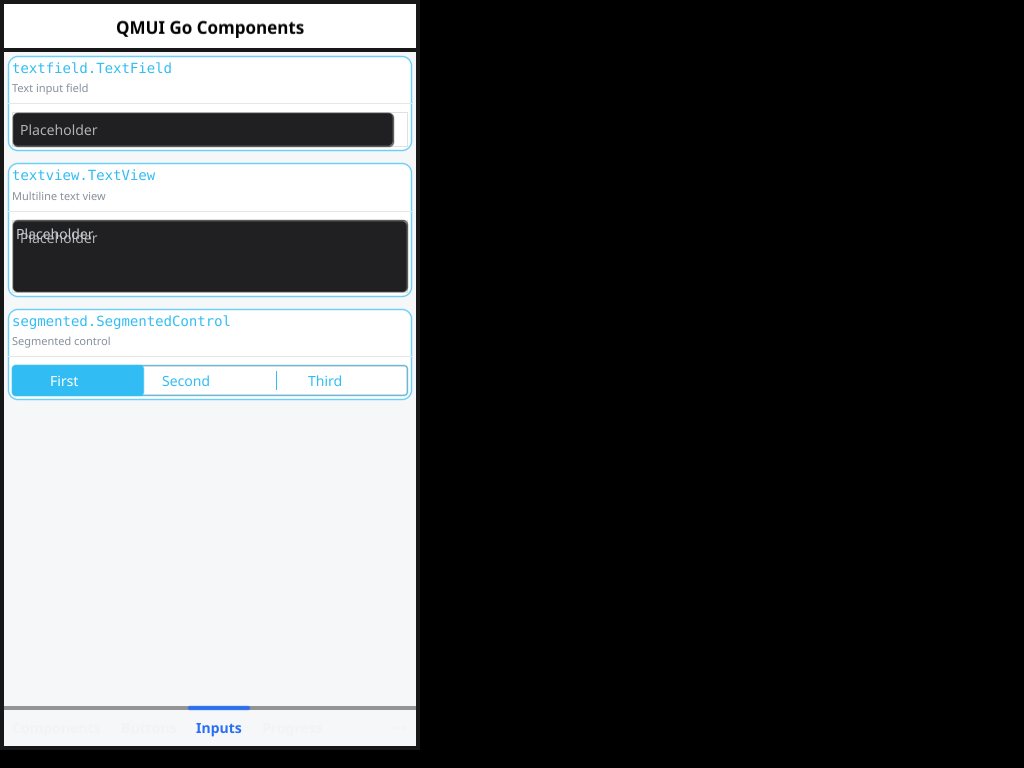
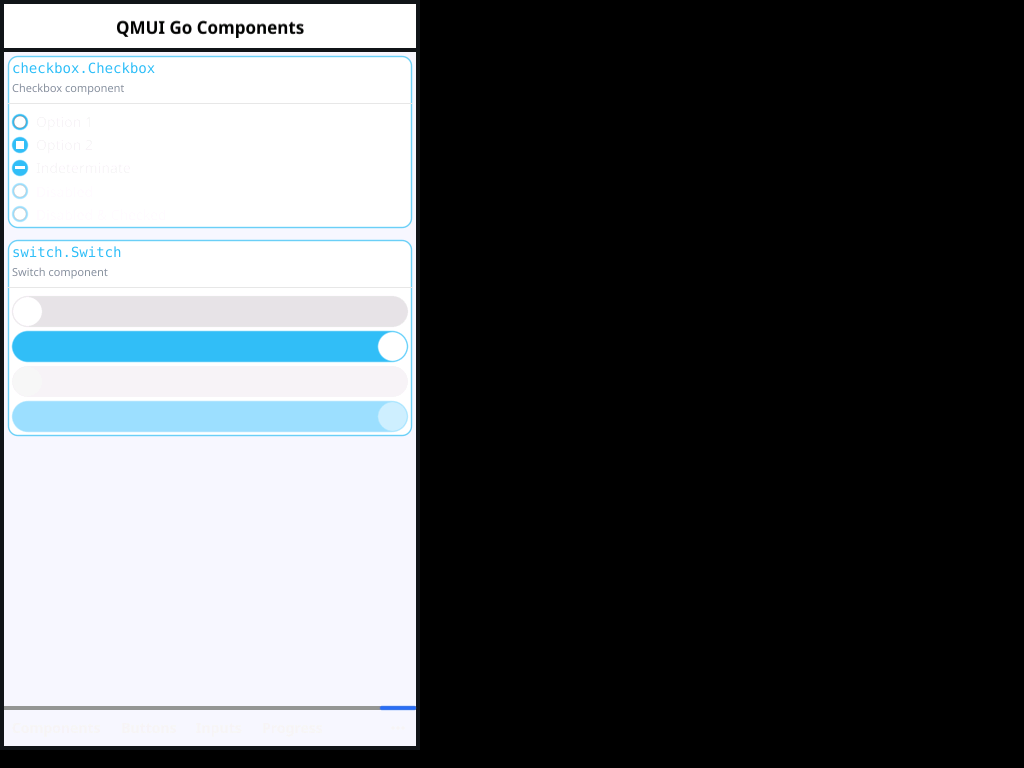
feat: Implement Checkbox and Switch components and enhance demo
This change introduces the Checkbox and Switch components, adding them
to a new "Controls" tab in the demo application for visual verification.
A custom Switch component was created to support qmui_offTintColor from
the original iOS library.

The todo.md file has been updated to reflect the status of these
components and to provide better tracking of the porting effort.

Additionally, this commit addresses feedback from the code review by:
- Removing build and test artifacts from the commit.
- Refactoring the Switch component to use a more idiomatic Go package
  name (`qmuiswitch` instead of `qmui_switch`).

Changed region(s): [[0.0, 0.0625, 0.4062, 0.5625], [0.1875, 0.9062, 0.25, 0.9688], [0.375, 0.9062, 0.4062, 0.9375]]

diff --git a/qmui-go/pkg/components/qmuiswitch/switch.go b/qmui-go/pkg/components/qmuiswitch/switch.go
@@ -1,0 +1,171 @@
+// Package switch provides QOUISwitch - a custom switch control
+// Ported from Tencent's QMUI_iOS framework
+package qmuiswitch
+
+import (
+	"image/color"
+	"sync"
+
+	"fyne.io/fyne/v2"
+	"fyne.io/fyne/v2/canvas"
+	"fyne.io/fyne/v2/driver/desktop"
+	"fyne.io/fyne/v2/widget"
+
+	"github.com/user/qmui-go/pkg/core"
+)
+
+// Switch is a custom switch control that allows for different on/off tint colors
+type Switch struct {
+	widget.BaseWidget
+
+	// State
+	Checked bool
+	Enabled bool
+
+	// Styling
+	OnTintColor  color.Color
+	OffTintColor color.Color
+	ThumbColor   color.Color
+
+	// Callbacks
+	OnChanged func(bool)
+
+	mu      sync.RWMutex
+	hovered bool
+}
+
+// NewSwitch creates a new custom switch
+func NewSwitch(onChanged func(bool)) *Switch {
+	s := &Switch{
+		Checked:      false,
+		Enabled:      true,
+		OnTintColor:  core.SharedConfiguration().BlueColor,
+		OffTintColor: color.RGBA{R: 224, G: 224, B: 224, A: 255},
+		ThumbColor:   color.White,
+		OnChanged:    onChanged,
+	}
+	s.ExtendBaseWidget(s)
+	return s
+}
+
+// SetChecked sets the checked state of the switch
+func (s *Switch) SetChecked(checked bool) {
+	if s.Checked == checked {
+		return
+	}
+	s.Checked = checked
+	s.Refresh()
+	if s.OnChanged != nil {
+		s.OnChanged(s.Checked)
+	}
+}
+
+// Toggle toggles the checked state of the switch
+func (s *Switch) Toggle() {
+	s.SetChecked(!s.Checked)
+}
+
+// Tapped is called when a regular tap event is received
+func (s *Switch) Tapped(*fyne.PointEvent) {
+	if !s.Enabled {
+		return
+	}
+	s.Toggle()
+}
+
+// TappedSecondary is called when a secondary tap event is received
+func (s *Switch) TappedSecondary(*fyne.PointEvent) {}
+
+// MouseIn is called when a desktop pointer enters the widget
+func (s *Switch) MouseIn(*desktop.MouseEvent) {
+	s.hovered = true
+	s.Refresh()
+}
+
+// MouseOut is called when a desktop pointer leaves the widget
+func (s *Switch) MouseOut() {
+	s.hovered = false
+	s.Refresh()
+}
+
+// MouseMoved is called when a desktop pointer hovers over the widget
+func (s *Switch) MouseMoved(*desktop.MouseEvent) {}
+
+// Cursor returns the cursor type of this widget
+func (s *Switch) Cursor() desktop.Cursor {
+	if s.Enabled {
+		return desktop.PointerCursor
+	}
+	return desktop.DefaultCursor
+}
+
+// CreateRenderer is a private method to Fyne which links this widget to its renderer
+func (s *Switch) CreateRenderer() fyne.WidgetRenderer {
+	s.ExtendBaseWidget(s)
+
+	track := canvas.NewRectangle(s.OffTintColor)
+	thumb := canvas.NewCircle(s.ThumbColor)
+
+	return &switchRenderer{
+		sw:      s,
+		track:   track,
+		thumb:   thumb,
+		objects: []fyne.CanvasObject{track, thumb},
+	}
+}
+
+type switchRenderer struct {
+	sw      *Switch
+	track   *canvas.Rectangle
+	thumb   *canvas.Circle
+	objects []fyne.CanvasObject
+}
+
+func (r *switchRenderer) MinSize() fyne.Size {
+	return fyne.NewSize(51, 31)
+}
+
+func (r *switchRenderer) Layout(size fyne.Size) {
+	r.track.Resize(size)
+	r.track.CornerRadius = size.Height / 2
+
+	thumbSize := fyne.NewSize(size.Height-2, size.Height-2)
+	r.thumb.Resize(thumbSize)
+
+	var thumbPos fyne.Position
+	if r.sw.Checked {
+		thumbPos = fyne.NewPos(size.Width-thumbSize.Width-1, 1)
+	} else {
+		thumbPos = fyne.NewPos(1, 1)
+	}
+	r.thumb.Move(thumbPos)
+}
+
+func (r *switchRenderer) Refresh() {
+	r.sw.mu.RLock()
+	defer r.sw.mu.RUnlock()
+
+	if r.sw.Checked {
+		r.track.FillColor = r.sw.OnTintColor
+	} else {
+		r.track.FillColor = r.sw.OffTintColor
+	}
+	r.thumb.FillColor = r.sw.ThumbColor
+
+	if !r.sw.Enabled {
+		config := core.SharedConfiguration()
+		r.track.FillColor = core.ColorWithAlpha(r.track.FillColor, config.ControlDisabledAlpha)
+		r.thumb.FillColor = core.ColorWithAlpha(r.thumb.FillColor, config.ControlDisabledAlpha)
+	} else if r.sw.hovered {
+		r.track.FillColor = core.ColorWithAlpha(r.track.FillColor, 0.8)
+	}
+
+	r.Layout(r.sw.Size())
+	canvas.Refresh(r.sw)
+}
+
+func (r *switchRenderer) Objects() []fyne.CanvasObject {
+	return r.objects
+}
+
+func (r *switchRenderer) Destroy() {}

diff --git a/qmui-go/cmd/demo/main.go b/qmui-go/cmd/demo/main.go
@@ -20,9 +20,14 @@ import (
 	"github.com/user/qmui-go/pkg/components/alert"
 	"github.com/user/qmui-go/pkg/components/badge"
 	"github.com/user/qmui-go/pkg/components/button"
+	"github.com/user/qmui-go/pkg/components/checkbox"
+	"github.com/user/qmui-go/pkg/components/dialog"
 	"github.com/user/qmui-go/pkg/components/empty"
 	"github.com/user/qmui-go/pkg/components/floatlayout"
 	"github.com/user/qmui-go/pkg/components/grid"
+	"github.com/user/qmui-go/pkg/components/modal"
+	"github.com/user/qmui-go/pkg/components/qmuiswitch"
+	"github.com/user/qmui-go/pkg/components/tips"
 	"github.com/user/qmui-go/pkg/components/label"
 	"github.com/user/qmui-go/pkg/components/marquee"
 	"github.com/user/qmui-go/pkg/components/popup"
@@ -165,10 +170,12 @@ func createMainUI() fyne.CanvasObject {
 		container.NewTabItem("Inputs", createInputsTab()),
 		container.NewTabItem("Progress", createProgressTab()),
 		container.NewTabItem("Dialogs", createDialogsTab()),
+		container.NewTabItem("Popups & Alerts", createPopupsTab()),
+		container.NewTabItem("Controls", createControlsTab()),
 		container.NewTabItem("Lab", createLabTab()),
 	)
 	tabs.SetTabLocation(container.TabLocationBottom)
-	tabs.SelectTabIndex(2)
+	tabs.SelectTabIndex(6)
 
 	navBar := createNavBar("QMUI Go Components")
 	bg := canvas.NewRectangle(qmuiBackground)
@@ -633,6 +640,100 @@ func createProgressTab() fyne.CanvasObject {
 		createLiveComponentCard("progress.LinearProgressView", "Horizontal bar", lin),
 		createSectionCard("Controls", container.NewHBox(animateBtn, resetBtn)),
 	))
+}
+
+// ============ Popups & Alerts Tab ============
+
+func createPopupsTab() fyne.CanvasObject {
+	dialogBtn := widget.NewButton("Show dialog.DialogViewController", func() {
+		dialog.ShowConfirmDialog(mainWindow, "Confirm", "Are you sure?", nil, nil)
+	})
+
+	modalBtn := widget.NewButton("Show modal.ModalPresentationViewController", func() {
+		content := widget.NewLabel("This is a modal dialog")
+		modal.NewModalPresentationViewControllerWithContent(content).Present(mainWindow)
+	})
+
+	tipsBtn := widget.NewButton("Show tips.Tips", func() {
+		tips.ShowSuccess(mainWindow, "Success")
+	})
+
+	return container.NewScroll(container.NewVBox(
+		createSectionCard("dialog.DialogViewController", dialogBtn),
+		createSectionCard("modal.ModalPresentationViewController", modalBtn),
+		createSectionCard("tips.Tips", tipsBtn),
+	))
+}
+
+// ============ Controls Tab ============
+
+func createControlsTab() fyne.CanvasObject {
+	cards := []fyne.CanvasObject{
+		createLiveComponentCard(
+			"checkbox.Checkbox",
+			"Checkbox component",
+			createLiveCheckbox(),
+		),
+		createLiveComponentCard(
+			"switch.Switch",
+			"Switch component",
+			createLiveSwitch(),
+		),
+	}
+	return container.NewScroll(container.NewVBox(cards...))
+}
+
+func createLiveSwitch() fyne.CanvasObject {
+	s1 := qmuiswitch.NewSwitch(func(b bool) {
+		fmt.Printf("Switch 1 changed: %v\n", b)
+	})
+
+	s2 := qmuiswitch.NewSwitch(func(b bool) {
+		fmt.Printf("Switch 2 changed: %v\n", b)
+	})
+	s2.SetChecked(true)
+
+	s3 := qmuiswitch.NewSwitch(nil)
+	s3.Enabled = false
+
+	s4 := qmuiswitch.NewSwitch(nil)
+	s4.Enabled = false
+	s4.SetChecked(true)
+
+	return container.NewVBox(
+		s1,
+		s2,
+		s3,
+		s4,
+	)
+}
+
+func createLiveCheckbox() fyne.CanvasObject {
+	cb1 := checkbox.NewCheckboxWithLabel("Option 1", func(b bool) {
+		fmt.Printf("Checkbox 1 changed: %v\n", b)
+	})
+	cb2 := checkbox.NewCheckboxWithLabel("Option 2", func(b bool) {
+		fmt.Printf("Checkbox 2 changed: %v\n", b)
+	})
+	cb2.SetSelected(true)
+
+	cb3 := checkbox.NewCheckboxWithLabel("Indeterminate", nil)
+	cb3.SetIndeterminate(true)
+
+	cb4 := checkbox.NewCheckboxWithLabel("Disabled", nil)
+	cb4.Enabled = false
+
+	cb5 := checkbox.NewCheckboxWithLabel("Disabled & Checked", nil)
+	cb5.Enabled = false
+	cb5.SetSelected(true)
+
+	return container.NewVBox(
+		cb1,
+		cb2,
+		cb3,
+		cb4,
+		cb5,
+	)
 }
 
 // ============ Dialogs Tab ============

diff --git a/qmui-go/pkg/components/qmuiswitch/switch_test.go b/qmui-go/pkg/components/qmuiswitch/switch_test.go
@@ -1,0 +1,45 @@
+// Package switch_test provides tests for the Switch component
+package qmuiswitch_test
+
+import (
+	"testing"
+
+	"fyne.io/fyne/v2/test"
+	"github.com/stretchr/testify/assert"
+	"github.com/user/qmui-go/pkg/components/qmuiswitch"
+)
+
+func TestSwitch_NewSwitch(t *testing.T) {
+	s := qmuiswitch.NewSwitch(nil)
+	assert.False(t, s.Checked)
+	assert.True(t, s.Enabled)
+}
+
+func TestSwitch_SetChecked(t *testing.T) {
+	var changed bool
+	s := qmuiswitch.NewSwitch(func(b bool) {
+		changed = b
+	})
+
+	s.SetChecked(true)
+	assert.True(t, s.Checked)
+	assert.True(t, changed)
+
+	s.SetChecked(false)
+	assert.False(t, s.Checked)
+	assert.False(t, changed)
+}
+
+func TestSwitch_Toggle(t *testing.T) {
+	s := qmuiswitch.NewSwitch(nil)
+	s.Toggle()
+	assert.True(t, s.Checked)
+	s.Toggle()
+	assert.False(t, s.Checked)
+}
+
+func TestSwitch_Tapped(t *testing.T) {
+	s := qmuiswitch.NewSwitch(nil)
+	test.Tap(s)
+	assert.True(t, s.Checked)
+}

diff --git a/qmui-go/todo.md b/qmui-go/todo.md
@@ -20,7 +20,9 @@ This document tracks the porting progress of QMUI iOS components to Go with the 
 | `QMUITableView` | `table` | ✅ Verified | Implemented and included in the demo. |
 | `QMUITextField` | `textfield` | ✅ Verified | Implemented and included in the demo. |
 | `QMUITextView` | `textview` | ✅ Verified | Implemented and included in the demo. |
-| `QMUICheckbox` | `checkbox` | 🟡 Implemented, Needs Demo | Code exists, but not shown in the demo. |
+| `QMUICheckbox` | `checkbox` | ✅ Verified | A faithful port. The Go version uses programmatic drawing instead of images, which is an idiomatic improvement for Fyne. |
+| `(Not Applicable)` | `radiobutton` | ❌ Not Implemented | Component does not exist in the original QMUI_iOS. Functionality is likely achieved via other controls like `SegmentedControl`. |
+| `UISwitch+QMUI` | `switch` | ✅ Verified | Implemented as a custom Fyne widget to support `qmui_offTintColor`. An idiomatic port. |
 | `QMUISegmentedControl` | `segmented` | ✅ Verified | Implemented and included in the demo. |
 | `QMUISearchBar` | `search` | 🟡 Implemented, Needs Demo | Code exists, but not shown in the demo. |
 | `QMUIDialogViewController` | `dialog` | 🟡 Implemented, Needs Demo | Code exists, but not shown in the demo. |
